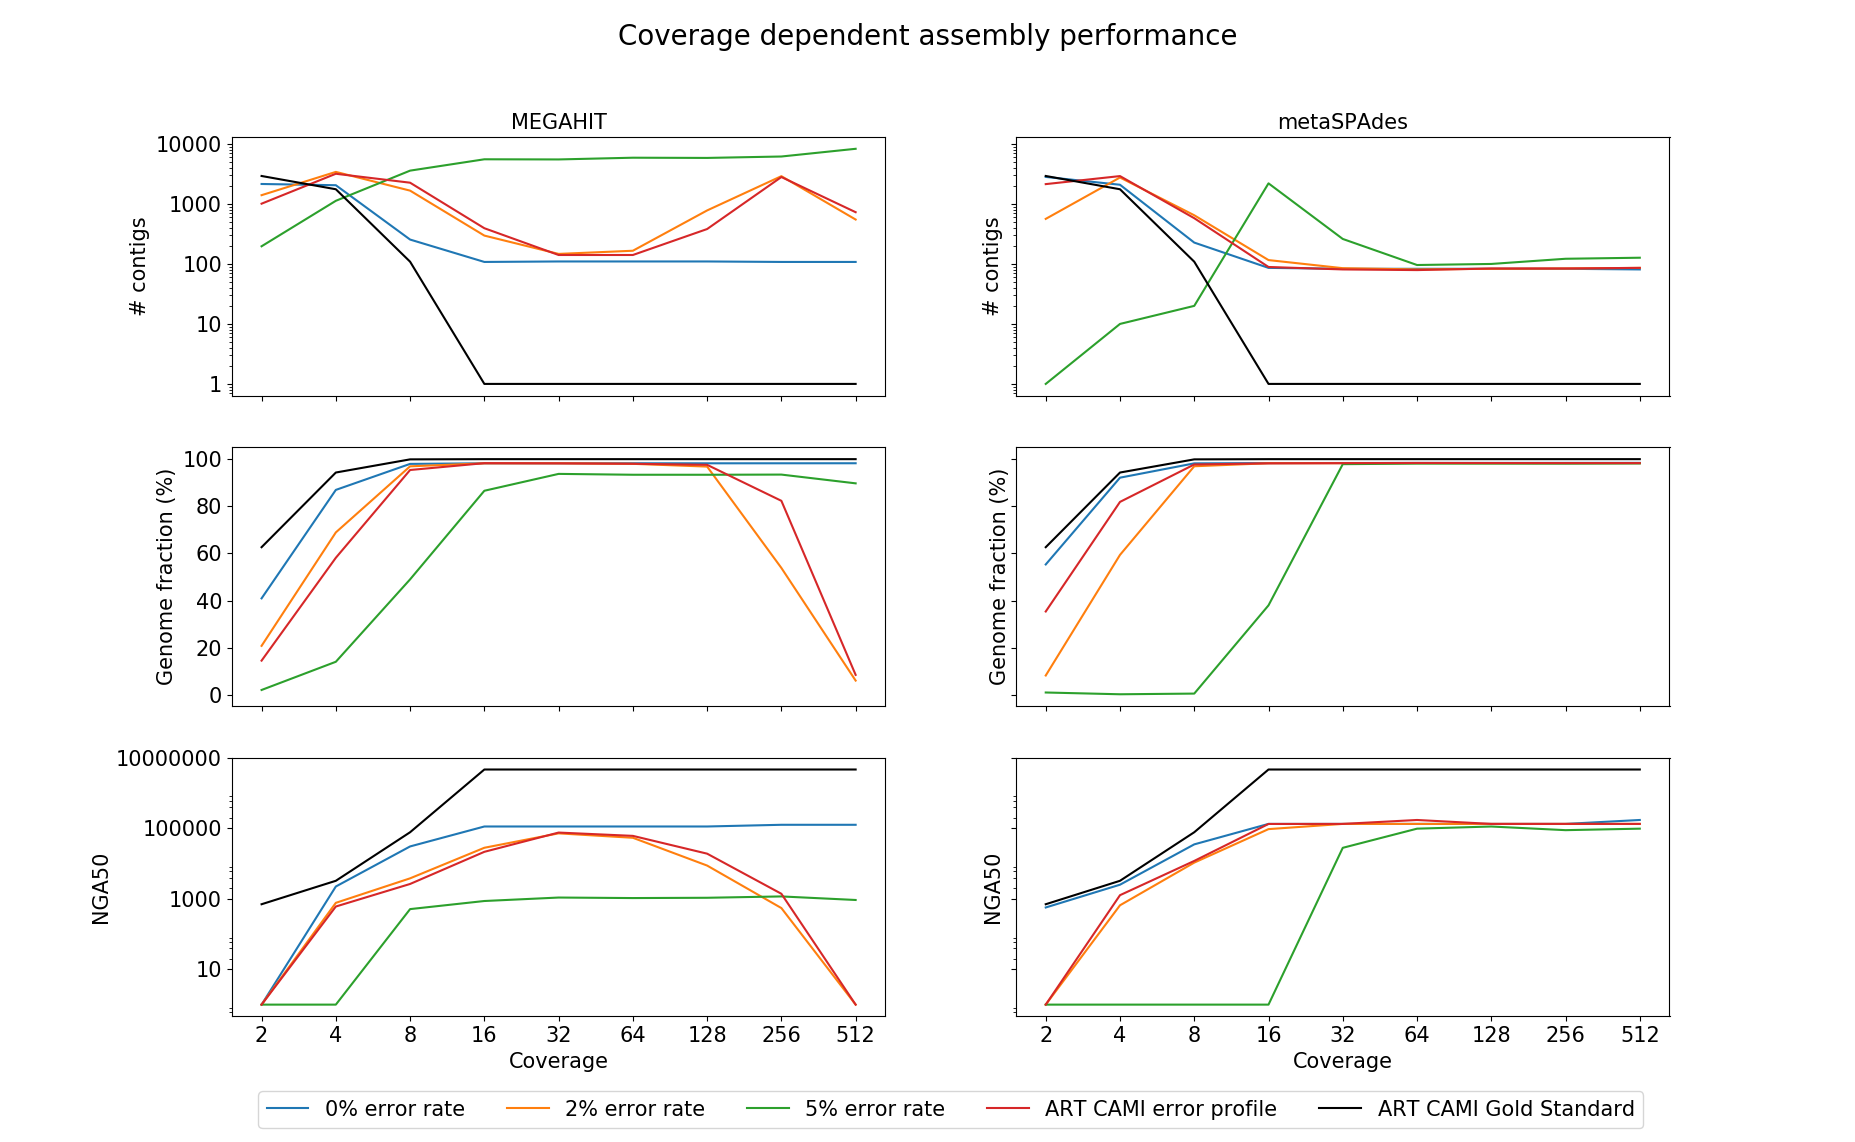
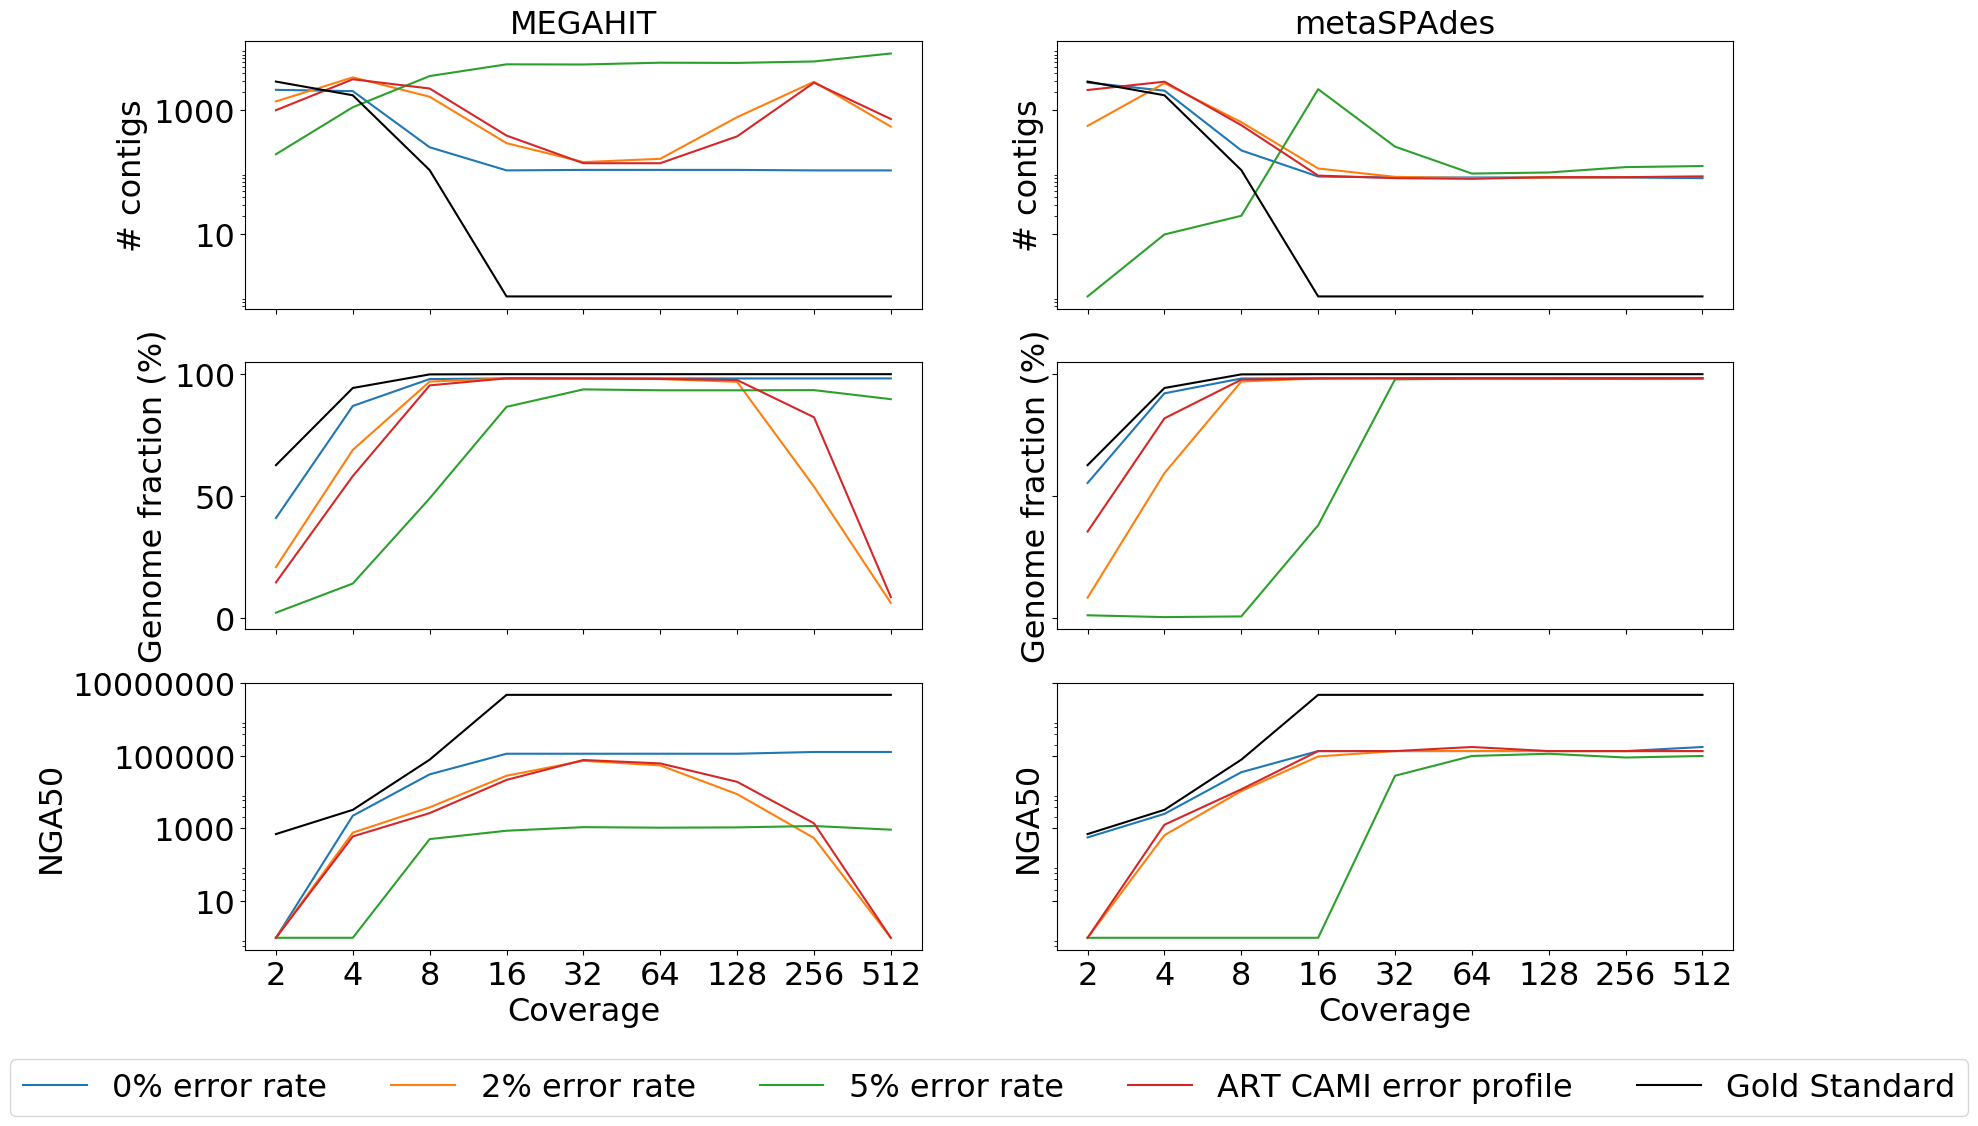
Changed font sizes and figures accordingly

diff --git a/Results/figures/similarity/create_panelfig.py b/Results/figures/similarity/create_panelfig.py
@@ -122,23 +122,23 @@ ax1.plot(range(len(res_mega_strain_wgsim)),[y for (z,y) in res_mega_strain_wgsim
 ax1.plot(range(len(res_mega_strain_wgsim)),[z for (z,y) in res_mega_strain_wgsim],label="evolved E.coli", color='blue')
 ax1.plot(range(len(res_mega_con_wgsim)),[y for (z,y) in res_mega_con_wgsim],label="E.coli K 12 consensus",ls='--', color='red')
 ax1.plot(range(len(res_mega_con_wgsim)),[z for (z,y) in res_mega_con_wgsim],label="evolved E.coli consensus",ls='--', color='blue')
-ax1.legend(loc='lower left',prop={'size': 18})
-ax1.set_title("E.coli genome fraction with different error profiles", size=18) 
+ax1.legend(loc='lower left',prop={'size': 21})
+ax1.set_title("E.coli genome fraction with different error profiles", size=21) 
 ax3.plot(range(len(res_mega_strain_art)),[y for (z,y) in res_mega_strain_art],label="E.coli K 12", color='red')
 ax3.plot(range(len(res_mega_strain_art)),[z for (z,y) in res_mega_strain_art],label="evolved E.coli", color='blue')
 ax3.plot(range(len(res_mega_con_art)),[y for (z,y) in res_mega_con_art],label="E.coli K 12 consensus",ls='--', color='red')
 ax3.plot(range(len(res_mega_con_art)),[z for (z,y) in res_mega_con_art],label="evolved E.coli consensus",ls='--', color='blue')
-ax3.legend(loc='lower left',prop={'size': 18})
+ax3.legend(loc='lower left',prop={'size': 21})
 
 # all genomes plot
 mean_str_ev, sd_str_ev, mean_str_og, sd_str_og, mean_con_ev, sd_con_ev, mean_con_og, sd_con_og = create_all_genomes_data("../../itol_evaluation")
 ax2.errorbar(range(len(mean_str_og)),mean_str_og,yerr=[float(x)/2 for x in sd_str_og],capsize=3,label="Unique mapping",color='red')
 ax2.errorbar(range(len(mean_con_og)),mean_con_og,yerr=[float(x)/2 for x in sd_con_og],capsize=3,label="Multiple best mappings",color='blue')
-ax2.legend(loc='lower left',prop={'size': 18})
-ax2.set_title("Average genome fraction for all genomes", size=18)
+ax2.legend(loc='lower left',prop={'size': 21})
+ax2.set_title("Average genome fraction for all genomes", size=21)
 ax4.errorbar(range(len(mean_str_ev)),mean_str_ev,yerr=[float(x)/2 for x in sd_str_ev],capsize=3,label="Unique mapping",color='red')
 ax4.errorbar(range(len(mean_con_ev)),mean_con_ev,yerr=[float(x)/2 for x in sd_con_ev],capsize=3,label="Multiple best mappings",color='blue')
-ax4.legend(loc='lower left',prop={'size': 18})
+ax4.legend(loc='lower left',prop={'size': 21})
 
 # general stuff
 xlabels = sim[::2]
@@ -148,6 +148,6 @@ ax3.set_xticklabels(xlabels, size=18)
 ax4.set_xticklabels(xlabels, size=18)
 ax3.set_xticks(range(0,22,2))
 ax4.set_xticks(range(0,22,2))
-f.text(0.08,0.5,"Genome fraction (%)",ha = 'center', va = 'center', rotation='vertical', size=18)
-f.text(0.5,0.05,"Genome similarity (ANI)",ha = 'center', va = 'center', size=18)
+f.text(0.08,0.5,"Genome fraction (%)",ha = 'center', va = 'center', rotation='vertical', size=21)
+f.text(0.5,0.05,"Genome similarity (ANI)",ha = 'center', va = 'center', size=21)
 plt.show()

diff --git a/Results/coverage_sweep/create_plot.py b/Results/coverage_sweep/create_plot.py
@@ -37,10 +37,10 @@ def get_metric(metric, statistics):
 def create_plot(statistics, gs_statistics):
     x_points = [0,1,2,3,4,5,6,7,8]
     x = [2,4,8,16,32,64,128,256,512]
-    matplotlib.rcParams['xtick.labelsize'] = 15
-    matplotlib.rcParams['ytick.labelsize'] = 15
+    matplotlib.rcParams['xtick.labelsize'] = 23
+    matplotlib.rcParams['ytick.labelsize'] = 23
     f, axes = plt.subplots(3,2,sharex='col', sharey='row')
-    f.suptitle("Coverage dependent assembly performance", fontsize=20)
+    #f.suptitle("Coverage dependent assembly performance", fontsize=20)
     labels = {'000' : '0% error rate', '020':'2% error rate','050':'5% error rate','ART':'ART CAMI error profile'}
     metrics = {'gf':"Genome fraction (%)",'nga':"NGA50",'contigs':"# contigs"}
     i = 0
@@ -58,18 +58,20 @@ def create_plot(statistics, gs_statistics):
                     axes[j][i].get_yaxis().set_major_formatter(ScalarFormatter())
                     axes[j][i].get_yaxis().get_major_formatter().set_scientific(False)
                 if j == 0:
-                    axes[j][i].set_title(tool, size=15)
-                axes[j][i].set_ylabel(metrics[metric],size=15)
+                    axes[j][i].set_title(tool, size=23)
+                axes[j][i].set_ylabel(metrics[metric],size=23)
                 axes[j][i].set_xticks(x_points)
                 axes[j][i].set_xticklabels(x)
             values_gs = gs_statistics['metaSPAdes'][metric+"_gs"]['ART']
-            axes[j][i].plot(x_points,values_gs,color='black',label="ART CAMI Gold Standard")
+            axes[j][i].plot(x_points,values_gs,color='black',label="Gold Standard")
             j += 1
         i += 1
-    axes[-1][0].set_xlabel("Coverage", size = 15)
-    axes[-1][1].set_xlabel("Coverage", size = 15)
-    plt.legend(loc=9, bbox_to_anchor=(-0.1, -0.25), ncol=5, fontsize=15)
-    plt.show()
+    axes[-1][0].set_xlabel("Coverage", size = 23)
+    axes[-1][1].set_xlabel("Coverage", size = 23)
+    lgd = plt.legend(loc=9, bbox_to_anchor=(-0.1, -0.35), ncol=5, fontsize=23)
+    #plt.show()
+    f.set_size_inches(19.2,11.8)
+    f.savefig('samplefigure', bbox_extra_artists=(lgd,), bbox_inches='tight')
     return
 
 
